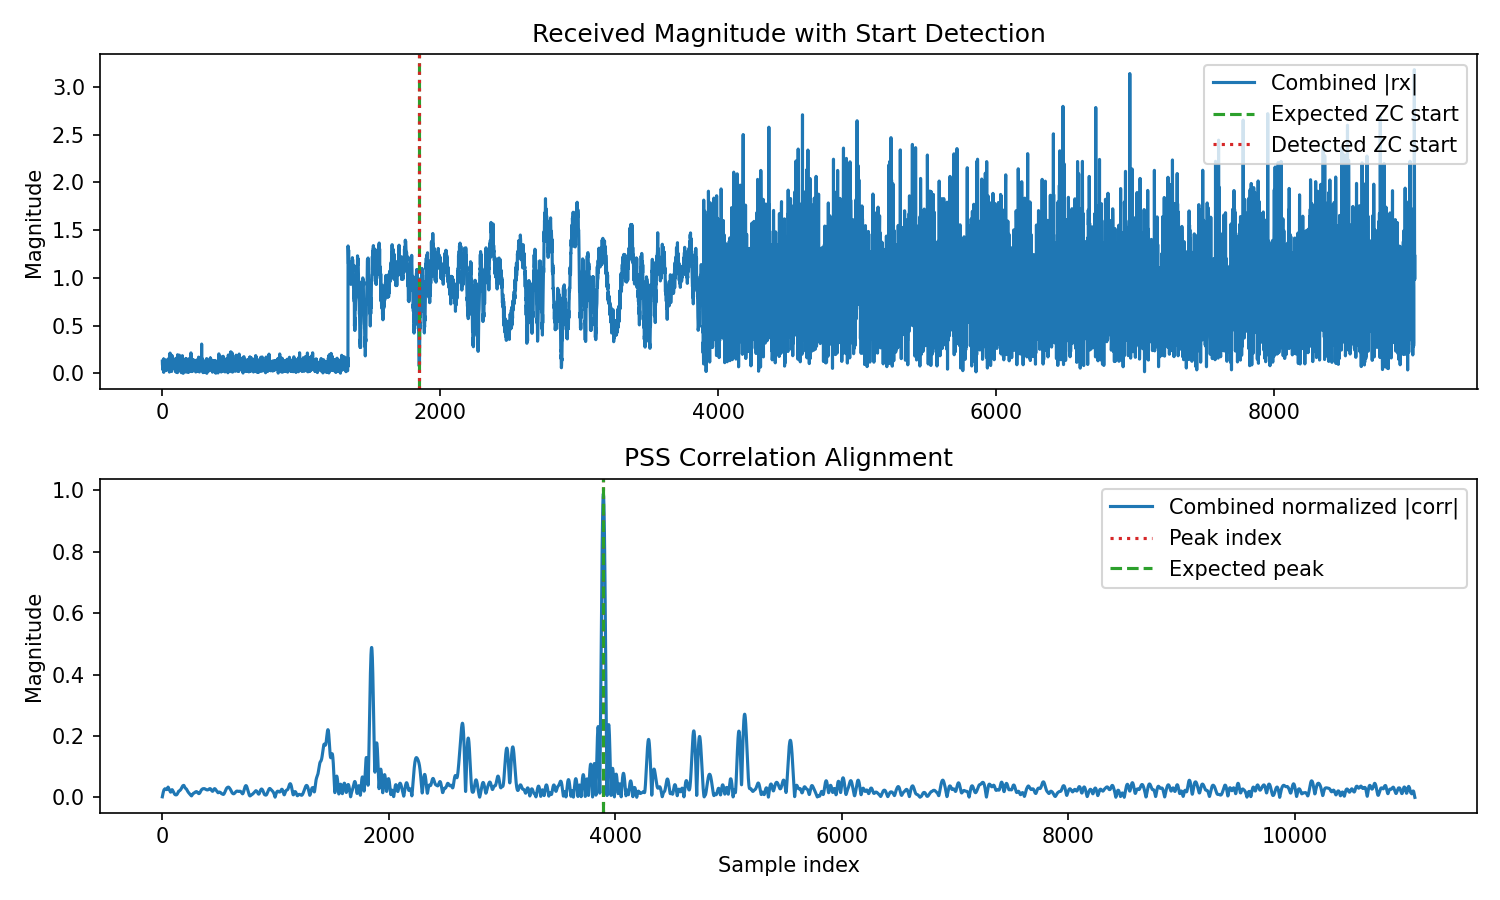
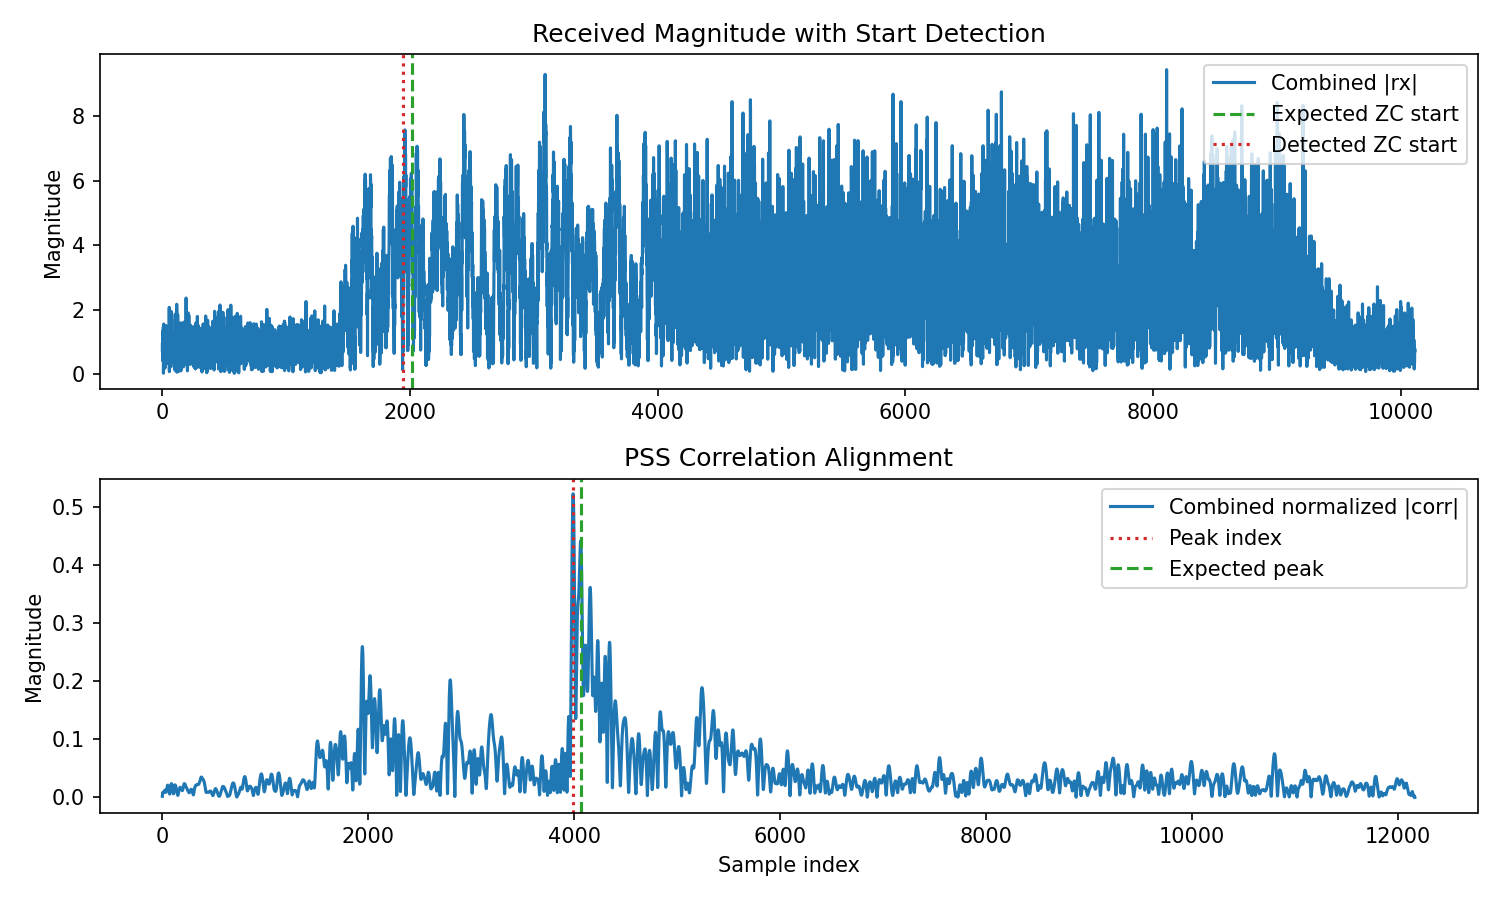
improved sc frame start detect

diff --git a/sc.py b/sc.py
@@ -149,8 +149,8 @@ def find_plateau_end_from_metric(
 # Detector and channel parameters (script-local)
 SNR_DB = 10.0
 CFO_HZ = 1000.0
-SC_DELTA = 0  # step back from plateau end to sit inside CP (8–16 suggested)
-SMOOTH_WIN = 32  # samples for smoothing M(d) before slope detection
+SC_DELTA = 8  # step back from plateau end to sit inside CP (8–16 suggested)
+SMOOTH_WIN = 16  # samples for smoothing M(d) before slope detection
 
 # Output paths
 PLOTS_DIR = Path("plots") / "sc"
@@ -162,7 +162,7 @@ CIR_PLOT_PATH = PLOTS_DIR / "channel_cir.png"
 CONST_PLOT_PATH = PLOTS_DIR / "constellation.png"
 
 # Measured channel: fixed to 'cir1' ch1 (SISO). Set to None for AWGN-only.
-MEASURED_CHANNEL_NAME = None
+MEASURED_CHANNEL_NAME = "cir1"
 
 
 def run_simulation():
@@ -212,15 +212,16 @@ def run_simulation():
             CIR_PLOT_PATH,
         )
 
-    # The S&C plateau ideally spans the CP; its "end" aligns near CP end
+    # The S&C plateau "left" edge aligns at CP end (useful start).
+    # Show this as the expected left edge for clarity.
     true_cp_start = TX_PRE_PAD_SAMPLES + channel_peak_offset
-    expected_plateau_end = true_cp_start + CYCLIC_PREFIX
+    expected_left_edge = true_cp_start + CYCLIC_PREFIX
 
     # Plots
     plt.figure(figsize=(10, 4))
     plt.plot(M, label="S&C M(d)")
     plt.axvline(plateau_end, color="tab:red", linestyle=":", label="Plateau end")
-    plt.axvline(expected_plateau_end, color="tab:green", linestyle="--", label="Expected end")
+    plt.axvline(expected_left_edge, color="tab:green", linestyle="--", label="Plateau start (exp)")
     plt.xlabel("Sample index d")
     plt.ylabel("M(d)")
     plt.title("Schmidl & Cox Streaming Metric")
@@ -237,7 +238,7 @@ def run_simulation():
         for idx, branch in enumerate(rx_samples):
             axes[0].plot(np.abs(branch), alpha=0.3, linewidth=0.8)
     axes[0].axvline(true_cp_start, color="tab:purple", linestyle="--", label="CP start (true)")
-    axes[0].axvline(expected_plateau_end, color="tab:green", linestyle="--", label="Plateau end (exp)")
+    axes[0].axvline(expected_left_edge, color="tab:green", linestyle="--", label="Plateau start (exp)")
     axes[0].axvline(plateau_end, color="tab:red", linestyle=":", label="Plateau end (det)")
     axes[0].axvline(coarse_start, color="tab:orange", linestyle=":", label=f"Coarse start = end-{SC_DELTA}")
     axes[0].set_ylabel("Magnitude")
@@ -246,7 +247,7 @@ def run_simulation():
 
     axes[1].plot(M, label="S&C M(d)")
     axes[1].axvline(plateau_end, color="tab:red", linestyle=":", label="Plateau end (det)")
-    axes[1].axvline(expected_plateau_end, color="tab:green", linestyle="--", label="Plateau end (exp)")
+    axes[1].axvline(expected_left_edge, color="tab:green", linestyle="--", label="Plateau start (exp)")
     axes[1].set_xlabel("Sample index d")
     axes[1].set_ylabel("M(d)")
     axes[1].set_title("Plateau-Based Timing (End minus delta)")
@@ -304,7 +305,7 @@ def run_simulation():
         print("Channel profile disabled (AWGN only)")
     print(f"Detected plateau end at d={plateau_end}")
     print(f"Coarse start (end - {SC_DELTA}) at d={coarse_start}")
-    print(f"Expected plateau end at d={expected_plateau_end}")
+    print(f"Expected plateau start at d={expected_left_edge}")
     print(f"Saved S&C metric plot to {METRIC_PLOT_PATH.resolve()}")
     print(f"Saved transmit time series plot to {TX_PLOT_PATH.resolve()}")
     print(f"Saved receive time series plot to {RX_PLOT_PATH.resolve()}")

diff --git a/zc.py b/zc.py
@@ -59,7 +59,7 @@ CIR_PLOT_PATH = PLOTS_DIR / "channel_cir.png"
 CONST_PLOT_PATH = PLOTS_DIR / "constellation.png"
 
 # Measured channel fixed to 'cir1' ch1 (SISO). Set to None for AWGN-only.
-MEASURED_CHANNEL_NAME = None
+MEASURED_CHANNEL_NAME = "cir1"
 
 
 def run_simulation():
